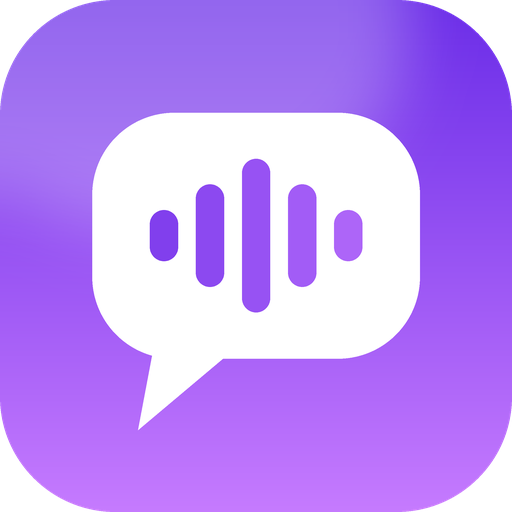
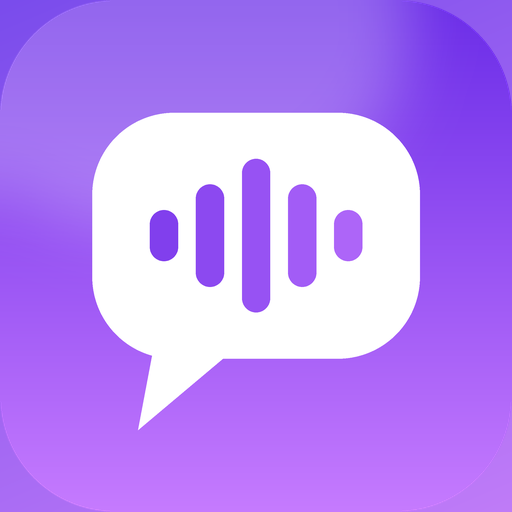
feat(voice-call): App Store art (#140)
* feat(voice-call): store art: opaque icon, hero and screenshot

* docs(voice-call): note the third-party trust prerequisite

diff --git a/examples/apps/voice-call/README.md b/examples/apps/voice-call/README.md
@@ -29,6 +29,8 @@ git clone --depth 1 https://github.com/aws-samples/sample-host-kirocrew-on-amazo
 
 Then in the dashboard: **Apps → Discover → Install from local path**, choose `~/workplace/kirocrew-samples/examples/apps/voice-call`, and enable and trust it in **Library**. Kiro Crew refuses app installs from the terminal; installing is always the owner's own action.
 
+The app ships a backend (`backend/server.py`), so it is third-party executable code: Kiro Crew blocks it until you trust it. Choosing **Trust this app and enable** in Library sets that trust for this app only; to allow third-party apps globally instead, set `agent.apps_allow_third_party` to `true`.
+
 The built UI (`ui/dist`) is committed so the sandbox needs no Node build. To rebuild:
 
 ```bash
